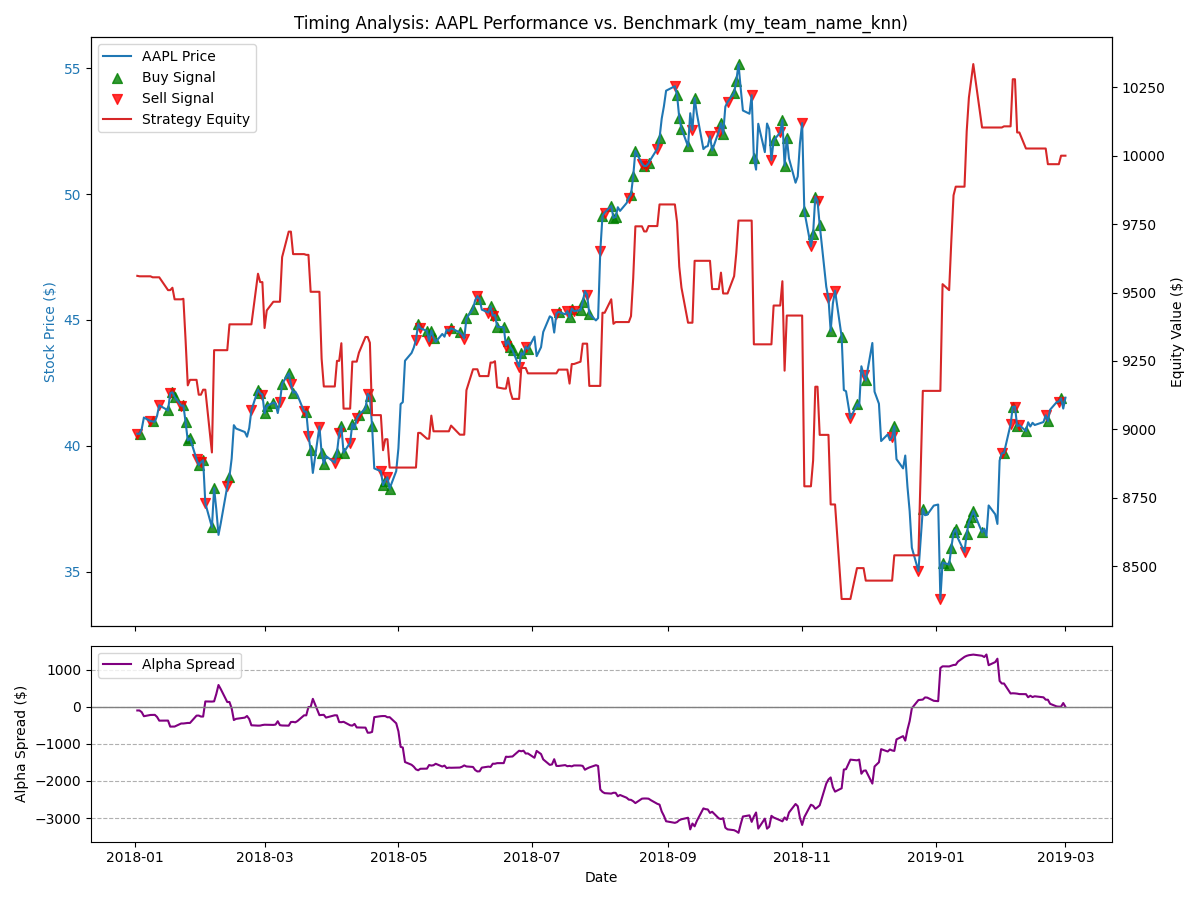
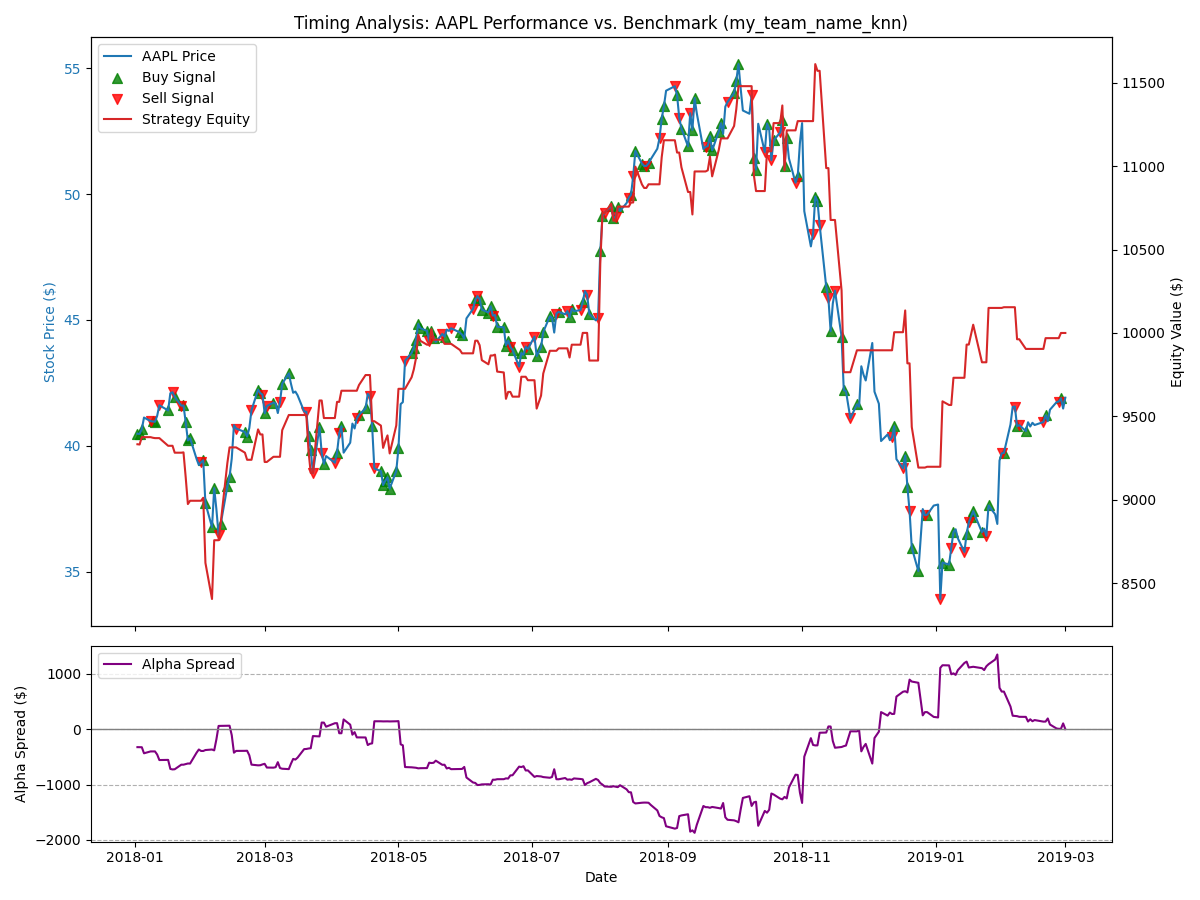
new best

diff --git a/bot_knn_cash_cow/knn_cash_cow.py b/bot_knn_cash_cow/knn_cash_cow.py
@@ -42,14 +42,14 @@ if not os.path.exists(SUBMISSION_FOLDER):
 # --- CONFIGURATION (Participants can adjust these) ---
 FAST_WINDOW = 20
 SLOW_WINDOW = 50
-N_DAYS_PREDICT = 5
+N_DAYS_PREDICT = 3
 SUBMISSION_NAME = 'my_team_name_knn_submission.joblib'
 INITIAL_CAPITAL = 10000.0
 # ---------------------------------------------------
 
 # SECTION A: FEATURE ENGINEERING
+# NOTE: Evaluator only computes MA_Difference, so we must use the same!
 
-# TODO: Participants can add more features here
 df['SMA_Fast'] = df.groupby(level='Ticker')['Close'].transform(
     lambda x: x.rolling(window=FAST_WINDOW).mean()
 )
@@ -65,7 +65,7 @@ df['Future_Return_Class'] = np.where(df.groupby(level='Ticker')['Close'].transfo
 
 df.dropna(inplace=True)
 
-# TODO: Participants MUST update this list if they add new features!
+# Feature columns - MUST match evaluator's feature calculation
 FEATURE_COLS = ['MA_Difference']
 X = df[FEATURE_COLS]
 # Note: We use the new binary target column for classification
@@ -87,8 +87,8 @@ print(f"\n---  MODEL TRAINING ({len(X_train_scaled)} samples) ---")
 
 # Key tuning levers: n_neighbors (K) and weights (uniform or distance).
 model = KNeighborsClassifier(
-    n_neighbors=15,  # Try adjusting K (must be an odd number to avoid ties)
-    weights='distance',  # Weights points by the inverse of their distance
+    n_neighbors=5,  # Best K
+    weights='distance',
     algorithm='auto'
 ).fit(X_train_scaled, y_train)
 

diff --git a/run_and_upload.py b/run_and_upload.py
@@ -215,8 +215,8 @@ def upload_submission():
                                 # Look for the result text containing "alpha"
                                 page_text = driver.find_element(By.TAG_NAME, "body").text
                                 
-                                # Search for alpha pattern like "alpha: X.XX%" or "Alpha: X.XX%"
-                                alpha_match = re.search(r'alpha[:\s]+(-?\d+\.?\d*)%', page_text, re.IGNORECASE)
+                                # Search for alpha pattern like "Your alpha: +0.00%" or "alpha: X.XX%"
+                                alpha_match = re.search(r'alpha[:\s]+([+-]?\d+\.?\d*)%', page_text, re.IGNORECASE)
                                 if alpha_match:
                                     alpha_value = alpha_match.group(1)
                                     print(f"\n{'='*60}")
